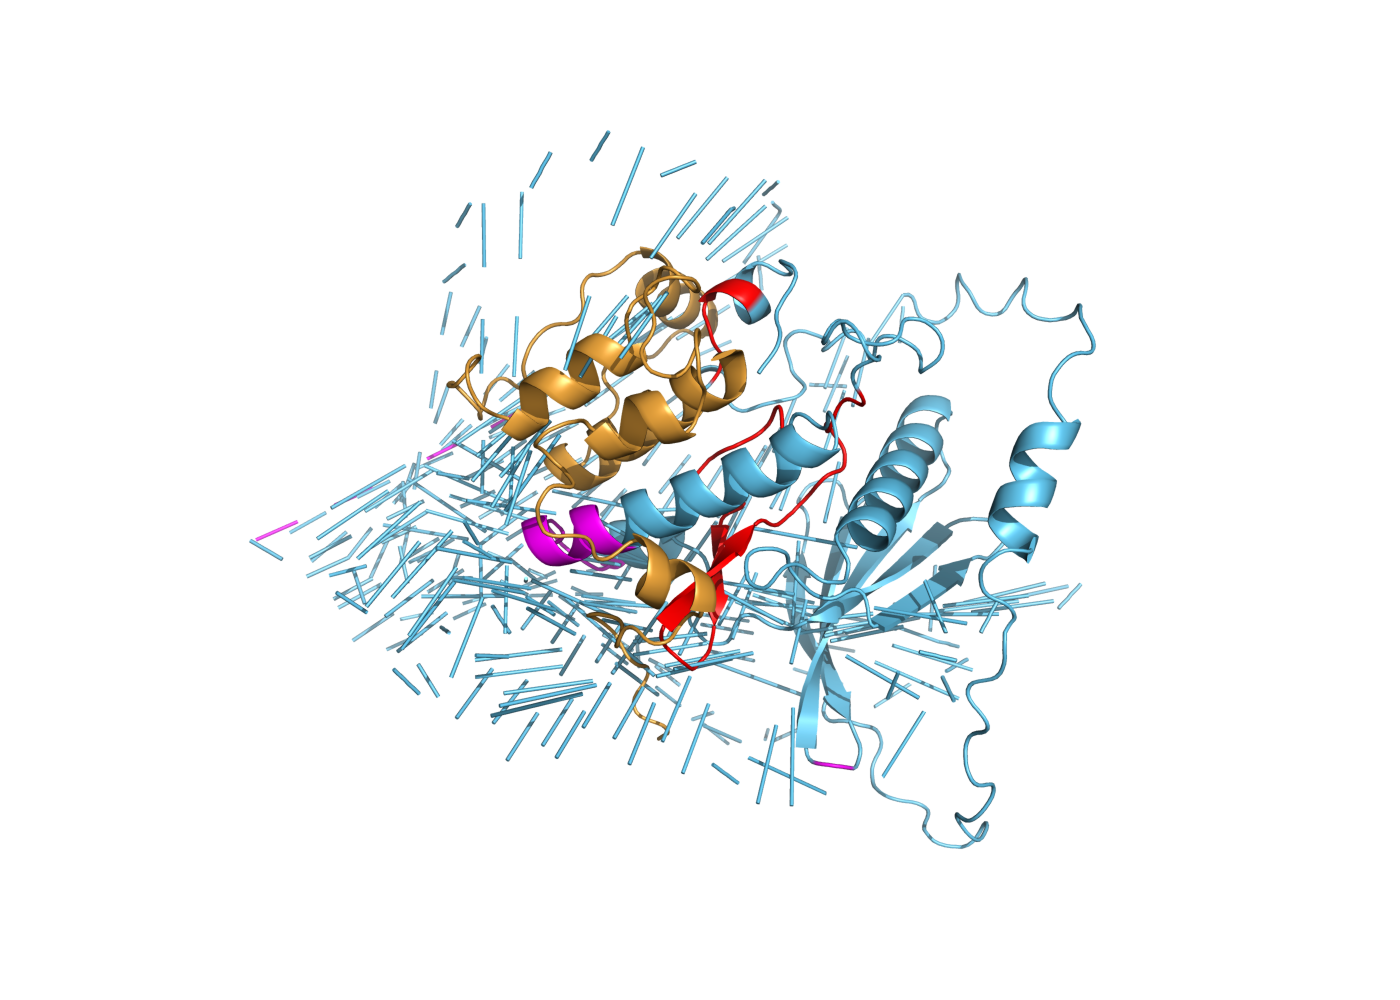
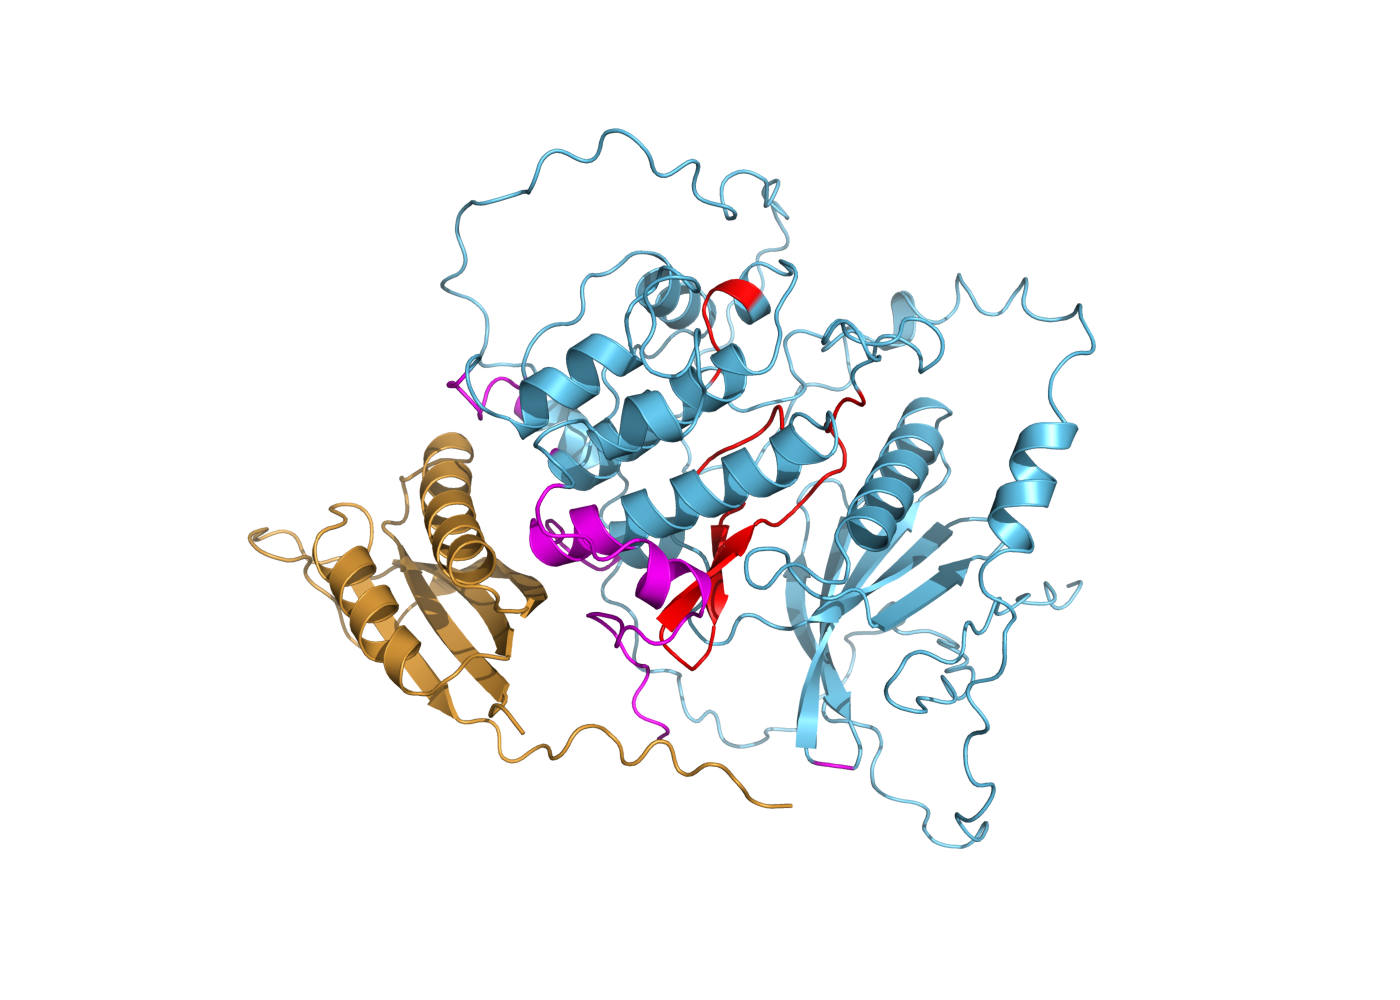
Fix docking render bug, add g14345 RNA-fold visuals, answer cis-regulatory RNA-seq question
- Diagnosed and fixed the g6124/g3557 docking figure: LightDock output reuses
  chain A with overlapping residue numbers for receptor and ligand, and
  PyMOL default atom ordering interleaved them under an index-range split,
  producing a scattered-rod artifact previously (incorrectly) captioned as
  real N-terminal disorder. Re-rendered with retain_order=1 + dss().
- Added side-by-side and zoomed g14345 RNAfold structure figures (RNAplot),
  confirming the pre-mRNA fold is identical between HS6 and WT4. Corrected
  the prior unpaired-poly-A description: position 626 base-pairs with 636,
  a C-G pair in WT4 downgraded to a G-U wobble in HS6, which is what
  actually accounts for the small MFE difference.
- Added a direct-answer callout with a DEG cross-reference table for the
  5-gene cis-regulatory candidate list, including an honest caveat that
  g568 fails the stricter per-timepoint consistency test despite a
  positive log2FC at all three timepoints.

diff --git a/report4.html b/report4.html
@@ -163,12 +163,33 @@ a{color:var(--teal-ink);}
     <span class="pill retracted">RanGAP-family LightDock docking &mdash; paused at 148/349 swarms, 2026-09-07: built on the retracted &sect;14 missense list, not resumed</span>
     <span class="pill retracted">SV-vs-CDS overlap audit &mdash; all 21 candidates retracted, 2026-09-07: see below</span>
     <span class="pill retracted">34-gene WT4-vs-HS6 ESMFold batch sweep &mdash; paused at 25/68, 2026-09-07: same reason, no confirmed missense target remains</span>
+    <span class="pill done">Baseline structure/docking figures (g6124/g3557) &mdash; done, 2026-09-07: docking render bug found &amp; fixed, see &sect;16</span>
+    <span class="pill done">g14345 RNA-fold visualization &mdash; done, 2026-09-07: identical structure confirmed visually, pairing detail corrected</span>
   </div>
 
   <div class="callout retracted" style="margin-top:16px;">
     <span class="lbl">Headline, stated plainly: this project has found zero confirmed missense (protein-coding) mutations between HS6 and #4</span>
     <p>Every mutation class has now been tested &mdash; SNPs, indels, and structural variants &mdash; and none produce a validated coding-sequence difference. &sect;14 checked 99 originally-claimed missense positions directly against WT4 reads: <b>1 of 99 held up, and that one (g14345) is intronic, not missense.</b> A follow-up session (2026-09-07) extended the same rigor to structural variants: 21 candidate genes where a delly SV call appeared to overlap a CDS were checked against actual sample genotypes (not just site-level <code>FILTER=PASS</code>) &mdash; <b>20 of 21 were never actually genotyped as present in the sample</b> despite passing quality filters, and the one that was (a duplication near <span class="gene">g6061</span>) showed a read-depth pattern opposite to a real duplication (lower depth inside the "duplicated" span than in flanking DNA) plus the same repeat-driven multi-mapping signature documented for other retracted candidates below &mdash; i.e. also an artifact, not a real variant.</p>
     <p><b>The only DNA-level variant that survives every check applied &mdash; independently reproduced by two separate pipelines on two separate machines &mdash; is g14345, and it sits in an intron.</b> No protein sequence changes as a result. Per this project's own standing rule (protein folding is only warranted for a confirmed missense change, since a non-coding variant cannot alter a protein's sequence or fold by construction &mdash; see &sect;16), <b>no gene currently qualifies for ESMFold/AlphaFold comparison or docking</b>. The batch folding and docking jobs below were paused rather than completed for exactly this reason, not from a resource or time constraint.</p>
+  </div>
+
+  <div class="callout" style="margin-top:16px;">
+    <span class="lbl">Direct answer (2026-09-07): given no missense mutations, are there regulatory mutations supported by RNA-seq?</span>
+    <p><b>Yes.</b> Five real, independently re-confirmed DNA variants sit near a gene &mdash; not inside its coding sequence, but close enough in cis to plausibly affect its expression &mdash; and all five of those genes are significant differential-expression (DE) hits in the RNA-seq data (padj&lt;0.05, DESeq2 genotype term). That's the full candidate list this project has produced for "how might HS6's genome explain its expression differences," now cross-checked directly against the DEG table rather than asserted from the variant list alone:</p>
+    <div class="table-wrap" style="margin-top:8px;">
+    <table>
+      <thead><tr><th>Gene</th><th>Variant location</th><th>log2FC (genotype)</th><th>padj</th><th>Direction across 20h/44h/68h</th><th>Annotation</th></tr></thead>
+      <tbody>
+        <tr><td class="gene">g8342</td><td>intergenic</td><td>&minus;1.15</td><td>0.00075</td><td>down at all 3 timepoints</td><td>unannotated</td></tr>
+        <tr><td class="gene">g568</td><td>intergenic, TC/CTT microsatellite</td><td>+0.97</td><td>0.011</td><td>up at all 3 timepoints by point estimate, but flagged "inconsistent" by this project's own stricter per-timepoint significance rule &mdash; see caveat below</td><td>Uracil-regulated protein 1</td></tr>
+        <tr><td class="gene">g6124</td><td>intergenic, AAAG microsatellite (2 variants, 0.85&ndash;2.2kb away)</td><td>&minus;0.59</td><td>0.017</td><td>down at all 3 timepoints</td><td>Ribosomal protein S6 kinase alpha-2</td></tr>
+        <tr><td class="gene">g8869</td><td>intergenic</td><td>&minus;1.6</td><td>0.023</td><td>down at all 3 timepoints</td><td>unannotated</td></tr>
+        <tr><td class="gene">g14345</td><td><b>intronic</b> (inside the gene body)</td><td>+0.76</td><td>0.033</td><td>up at all 3 timepoints</td><td>unannotated; only variant to survive independent re-verification with a mechanism this thorough (see &sect;16)</td></tr>
+      </tbody>
+    </table>
+    </div>
+    <p style="margin-top:8px;">Caveat on g568, stated plainly rather than smoothed over: this project's DEG table classifies each gene's cross-timepoint behavior with a stricter rule than "same sign at all three timepoints" (it also weighs per-timepoint significance), and g568 fails that stricter test even though its log2FC is positive at 20h, 44h, and 68h alike. Treat g568 as the weakest of the five on that basis specifically &mdash; still DE-significant overall (padj=0.011), just less consistently so than the other four.</p>
+    <p style="margin-top:8px;">This is genuine cis-regulatory-candidate evidence, not proof of causation: none of these five variant&ndash;expression pairings has been mechanistically confirmed (no ATAC/promoter assay, no RT-PCR splicing check beyond g14345's own structural analysis below, no Sanger confirmation of the variants themselves yet &mdash; primers are designed in &sect;16). What's established is a real, non-coding DNA difference in cis with a real, significant expression difference, for a small but complete list of 5 genes &mdash; the honest current state of "genomics explains HS6's expression shift," not the coding-mutation story originally proposed.</p>
   </div>
 
   <nav class="toc">
@@ -1080,7 +1101,22 @@ a{color:var(--teal-ink);}
         <div class="stat-card"><div class="v">1,638 / 1,638</div><div class="k">structural positions identical between alleles</div></div>
         <div class="stat-card"><div class="v">&minus;491.3 vs &minus;493.1</div><div class="k">MFE, kcal/mol (HS6 vs WT4) &mdash; &Delta;&Delta;G&asymp;1.8</div></div>
       </div>
-      <p style="margin-top:8px;">The base-pairing pattern is <b>completely identical</b> across the entire transcript &mdash; not approximately similar, exactly the same dot-bracket structure at all 1,638 positions. The small MFE difference reflects the substituted base&#8217;s own local stacking contribution, not a structural rearrangement. This isn&#8217;t surprising in hindsight: the variant sits in the middle of a 15+ nt poly-A homopolymer run (context: <code>AAACAAAAACAAAAA[T/C]AAAAAATAAGTTTTT</code>), and both RNAfold calls leave that entire stretch unpaired in both alleles &mdash; poly-A tracts don&#8217;t form stable secondary structure regardless of the exact base at any one position. RNA-structure disruption is now ruled out the same way splice-site disruption was above, leaving primary-sequence-based regulatory recognition (the IME mechanism proposed here) as the most parsimonious explanation still standing, by elimination rather than by direct confirmation.</p>
+      <p style="margin-top:8px;">The base-pairing pattern is <b>completely identical</b> across the entire transcript &mdash; not approximately similar, exactly the same dot-bracket structure at all 1,638 positions, independently re-verified in this 2026-09-07 session by re-running the diff directly on both RNAfold outputs. The variant sits in a run of mixed A/U bases (context: <code>AAACAAAAACAAAAA[U/C]AAAAAAUAAGUUUUU</code>) that is <i>mostly</i>, not entirely, unpaired &mdash; a correction to this section's earlier description. Position 626 itself base-pairs with position 636, six bases into a short local stem: <b>a canonical C&ndash;G Watson-Crick pair in WT4, downgraded to a G&ndash;U wobble pair in HS6</b>, with the identical dot-bracket topology preserved on both sides. That single pair-type swap, not a poly-A tract being agnostic to sequence, is what accounts for the &Delta;&Delta;G&asymp;1.8&nbsp;kcal/mol (G&ndash;U wobble pairs are thermodynamically weaker than G&ndash;C by almost exactly this margin) &mdash; a more precise, mechanistically satisfying explanation than "local stacking contribution," and one that still supports the same conclusion: no structural rearrangement, anywhere in the transcript.</p>
+    </div>
+
+    <div class="struct-fig-row" style="grid-template-columns:1fr;">
+      <div class="struct-fig-card">
+        <img src="figures/esmfold/g14345_rnafold_side_by_side.png" alt="Side-by-side RNAfold secondary structure diagrams of the g14345 pre-mRNA for HS6 and WT4, with the mutation position circled in red at an identical location in both" loading="lazy">
+        <div class="cap-title">Full pre-mRNA fold, both alleles &mdash; baseline comparison, structure is identical</div>
+        <div class="cap-body">RNAplot (ViennaRNA 2.7.2) renderings of the full 1,638&nbsp;nt fold for both alleles, laid out independently by the same naview algorithm. The mutation site (circled red, position 626) lands at pixel-identical coordinates in both renderings &mdash; a direct visual confirmation that every branch, stem, and loop of this structure is unchanged between HS6 and WT4, not just the dot-bracket string.</div>
+      </div>
+    </div>
+    <div class="struct-fig-row" style="grid-template-columns:1fr;max-width:900px;">
+      <div class="struct-fig-card">
+        <img src="figures/esmfold/g14345_rnafold_zoom.png" alt="Zoomed view of the local stem-loop around position 626 for both alleles, showing the G-U wobble pair in HS6 versus the canonical C-G pair in WT4" loading="lazy">
+        <div class="cap-title">Zoomed to the local stem: same fold, one pair downgraded from C&ndash;G to G&ndash;U</div>
+        <div class="cap-body">The base actually pairs (with position 636) rather than sitting in an unpaired loop as originally described. Same partner, same stem, same overall shape &mdash; only the pair chemistry changes.</div>
+      </div>
     </div>
 
     <h3>g14345's protein: what does the unannotated candidate actually look like?</h3>
@@ -1099,6 +1135,10 @@ a{color:var(--teal-ink);}
     </div>
 
     <h3>Structural characterization of g6124: does the fold actually look like a kinase?</h3>
+    <div class="callout" style="margin-bottom:10px;">
+      <span class="lbl">Baseline visualization, labeled plainly: one structure, shared identically by both strains</span>
+      <p>g6124 carries zero sequence differences of any kind between HS6 and #4 (confirmed above and again in &sect;16's independent re-call), so every image below &mdash; the fold, the docking pose, all of it &mdash; is <b>the same single structure for both genotypes</b>, not a HS6-vs-WT4 comparison. These figures establish that the eggNOG kinase annotation is structurally credible (baseline for interpreting the expression change), not that HS6's structure differs from #4's. There is no version of this figure to show "for WT4" separately &mdash; it would be pixel-identical.</p>
+    </div>
     <p>g6124 carries no coding mutation (confirmed above), so there's no WT4-vs-HS6 structural comparison to make here the way &sect;14 originally attempted for g6423/g11453 &mdash; this is a single-structure characterization testing whether the eggNOG "Ribosomal protein S6 kinase alpha-2" annotation is structurally plausible, which matters because that identity is what makes the nearby cis-regulatory variant a meaningful growth-phenotype candidate in the first place.</p>
     <div class="struct-fig-row" style="grid-template-columns:1.4fr 1fr;">
       <div class="struct-fig-card">
@@ -1119,8 +1159,8 @@ a{color:var(--teal-ink);}
     <div class="struct-fig-row" style="grid-template-columns:1.4fr 1fr;">
       <div class="struct-fig-card">
         <img src="figures/esmfold/g6124_g3557_docking_top_pose.gif" alt="Top-ranked docking pose of g6124 (kinase, blue) and g3557 (RPS6, orange), rotating, with the contact interface highlighted in magenta and the catalytic motifs in red" loading="lazy">
-        <div class="cap-title">Top-ranked pose, rotating (g6124 blue, g3557/RPS6 orange)</div>
-        <div class="cap-body">Interface residues (CA within 10&#8491; of the ligand) highlighted magenta; the three catalytic motifs (H<sup>276</sup>ADLKPEN<sup>283</sup>, D<sup>296</sup>FGLSVF<sup>302</sup>, S<sup>328</sup>APE<sup>331</sup>) in red for reference. The visible thin tangle is g6124's own disordered N-terminal region (pLDDT&lt;0.5 in the original fold) &mdash; a real low-confidence feature of the prediction, not a rendering error, left visible rather than deleted.</div>
+        <div class="cap-title">Top-ranked pose, rotating (g6124 blue, g3557/RPS6 orange) &mdash; re-rendered 2026-09-07</div>
+        <div class="cap-body">Interface residues (CA within 10&#8491; of the ligand) highlighted magenta; the three catalytic motifs (H<sup>276</sup>ADLKPEN<sup>283</sup>, D<sup>296</sup>FGLSVF<sup>302</sup>, S<sup>328</sup>APE<sup>331</sup>) in red for reference. <b>Correction:</b> the original version of this figure showed a chaotic scatter of disconnected rods across the whole frame, captioned at the time as g6124's real disordered N-terminal region left visible rather than deleted. That explanation was wrong. Direct diagnosis found the actual cause: the LightDock output PDB gives receptor and ligand the <i>same</i> chain ID with overlapping residue numbers (both start at residue 1), and PyMOL's default atom ordering (<code>retain_order=0</code>) re-sorts atoms by (chain, residue, atom name) rather than file order &mdash; so an atom-index-based chain split silently interleaved ligand residues into the "receptor" selection. Re-rendered here with <code>retain_order=1</code> (preserves file order) and explicit secondary-structure assignment (<code>dss()</code>, since the LightDock PDB carries no HELIX/SHEET records); the scatter is gone. g6124's N-terminal ~167 residues genuinely are low-confidence in the standalone fold (pLDDT&lt;0.5, verified directly from the PDB B-factor column) and still render as loose coil at the periphery here &mdash; that part of the original caption was directionally right &mdash; but the specific starburst artifact was a selection bug, not disorder.</div>
       </div>
       <div class="struct-fig-card">
         <img src="figures/esmfold/g6124_g3557_docking_top_pose.png" alt="Static render of the top docking pose" loading="lazy">
